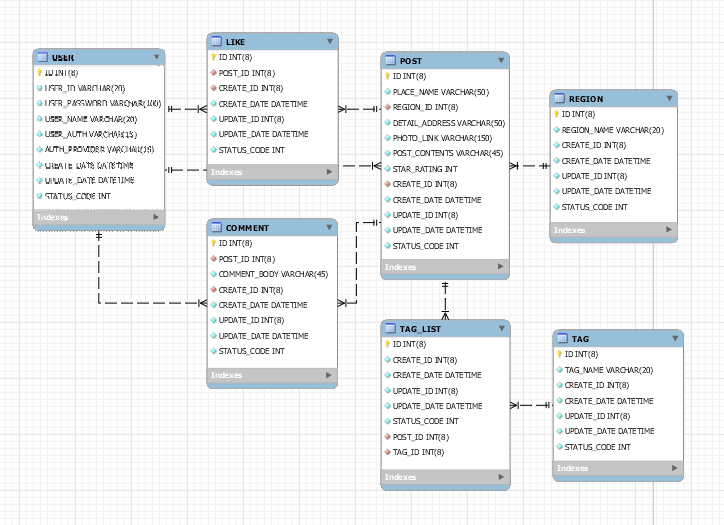
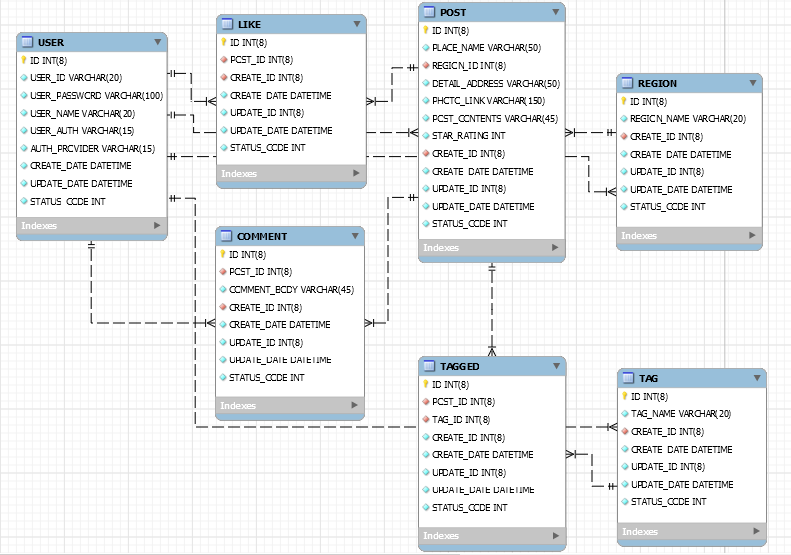
Doc : ERD변경 및 테이블 스키마 변경

Changed region(s): [[0.0, 0.0, 0.9724, 1.0]]

diff --git a/README.md b/README.md
@@ -99,34 +99,46 @@
 
 **ERD**
 
-![ERD](./docs/images/erd.PNG)
+![ERD](./docs/images/ERD.PNG)
 
-**User Collection**
+**USER Table**
 
-| 고유값 | 아이디  |   이름    |   비밀번호    |   권한    |   가입경로    | 좋아하는 게시물 |  상태코드   |
-| :----: | :-----: | :-------: | :-----------: | :-------: | :-----------: | :-------------: | :---------: |
-|  \_id  | user_id | user_name | user_password | user_auth | auth_provider |  favorite_post  | status_code |
+| 고유값(PK) | 아이디  |   비밀번호    |   이름    |   권한    |   가입경로    |   작성일    |   수정일    | 상태코드    |
+| :--------: | :-----: | :-----------: | :-------: | :-------: | :-----------: | :---------: | :---------: | ----------- |
+|     ID     | USER_ID | USER_PASSWORD | USER_NAME | USER_AUTH | AUTH_PROVIDER | CREATE_DATE | UPDATE_DATE | STATUS_CODE |
 
-**Tag Collection**
+**POST Table**
 
-| 고유값 |  태그명  |  상태코드   |  작성자   |   작성일    |  수정자   |   수정일    |
-| :----: | :------: | :---------: | :-------: | :---------: | :-------: | :---------: |
-|  \_id  | tag_name | status_code | create_id | create_date | update_id | update_date |
+| 고유값(PK) | 제목(장소) | 지역(FK)  |    상세주소    |  첨부파일  |     내용      |    별점     | 작성자(FK) |   작성일    |  수정자   |   수정일    |  상태코드   |
+| :--------: | :--------: | :-------: | :------------: | :--------: | :-----------: | :---------: | :--------: | :---------: | :-------: | :---------: | :---------: |
+|     ID     | PLACE_NAME | REGION_ID | DETAIL_ADDRESS | PHOTO_LINK | POST_CONTENTS | STAR_RATING | CREATE_ID  | CREATE_DATE | UPDATE_ID | UPDATE_DATE | STATUS_CODE |
 
-**Region Collection**
+**LIKE Table**
 
-| 고유값 |   지역명    |  상태코드   |  작성자   |   작성일    |  수정자   |   수정일    |
-| :----: | :---------: | :---------: | :-------: | :---------: | :-------: | :---------: |
-|  \_id  | region_name | status_code | create_id | create_date | update_id | update_date |
+| 고유값(PK) | 게시물(FK) | 작성자(FK) |   작성일    |  수정자   |   수정일    |  상태코드   |
+| :--------: | :--------: | :--------: | :---------: | :-------: | :---------: | :---------: |
+|     ID     |  POST_ID   | CREATE_ID  | CREATE_DATE | UPDATE_ID | UPDATE_DATE | STATUS_CODE |
 
-**Post Collection**
+**COMMENT Table**
 
-| 고유값 | 제목(장소) |    지역     |    상세주소    |  첨부파일  |     내용      |    별점     |   태그   |   좋아요    |  상태코드   |  작성자   |   작성일    |  수정자   |   수정일    |
-| :----: | :--------: | :---------: | :------------: | :--------: | :-----------: | :---------: | :------: | :---------: | :---------: | :-------: | :---------: | :-------: | :---------: |
-|  \_id  | place_name | region_name | detail_address | photo_link | post_contents | star_rating | tag_list | likes_count | status_code | create_id | create_date | update_id | update_date |
+| 고유값(PK) | 게시물(FK) |     내용     | 작성자(FK) |   작성일    |  수정자   |   수정일    |  상태코드   |
+| :--------: | :--------: | :----------: | :--------: | :---------: | :-------: | :---------: | :---------: |
+|     ID     |  POST_ID   | COMMENT_BODY | CREATE_ID  | CREATE_DATE | UPDATE_ID | UPDATE_DATE | STATUS_CODE |
 
-**Comment Collection**
+**REGION Table**
 
-| 고유값 |     내용     | 게시물  |  상태코드   |  작성자   |   작성일    |  수정자   |   수정일    |
-| :----: | :----------: | :-----: | :---------: | :-------: | :---------: | :-------: | :---------: |
-|  \_id  | comment_body | post_id | status_code | create_id | create_date | update_id | update_date |
+| 고유값(PK) |   지역명    | 작성자(FK) |   작성일    |  수정자   |   수정일    |  상태코드   |
+| :--------: | :---------: | :--------: | :---------: | :-------: | :---------: | :---------: |
+|     ID     | REGION_NAME | CREATE_ID  | CREATE_DATE | UPDATE_ID | UPDATE_DATE | STATUS_CODE |
+
+**TAG Table**
+
+| 고유값(PK) |  태그명  | 작성자(FK) |   작성일    |  수정자   |   수정일    |  상태코드   |
+| :--------: | :------: | :--------: | :---------: | :-------: | :---------: | :---------: |
+|     ID     | TAG_NAME | CREATE_ID  | CREATE_DATE | UPDATE_ID | UPDATE_DATE | STATUS_CODE |
+
+**TAGGED Table**
+
+| 고유값(PK) | 게시물(FK) | 태그(FK) |  작성자   |   작성일    |  수정자   |   수정일    | 상태코드    |
+| :--------: | :--------: | :------: | :-------: | :---------: | :-------: | :---------: | ----------- |
+|     ID     |  POST_ID   |  TAG_ID  | CREATE_ID | CREATE_DATE | UPDATE_ID | UPDATE_DATE | STATUS_CODE |
